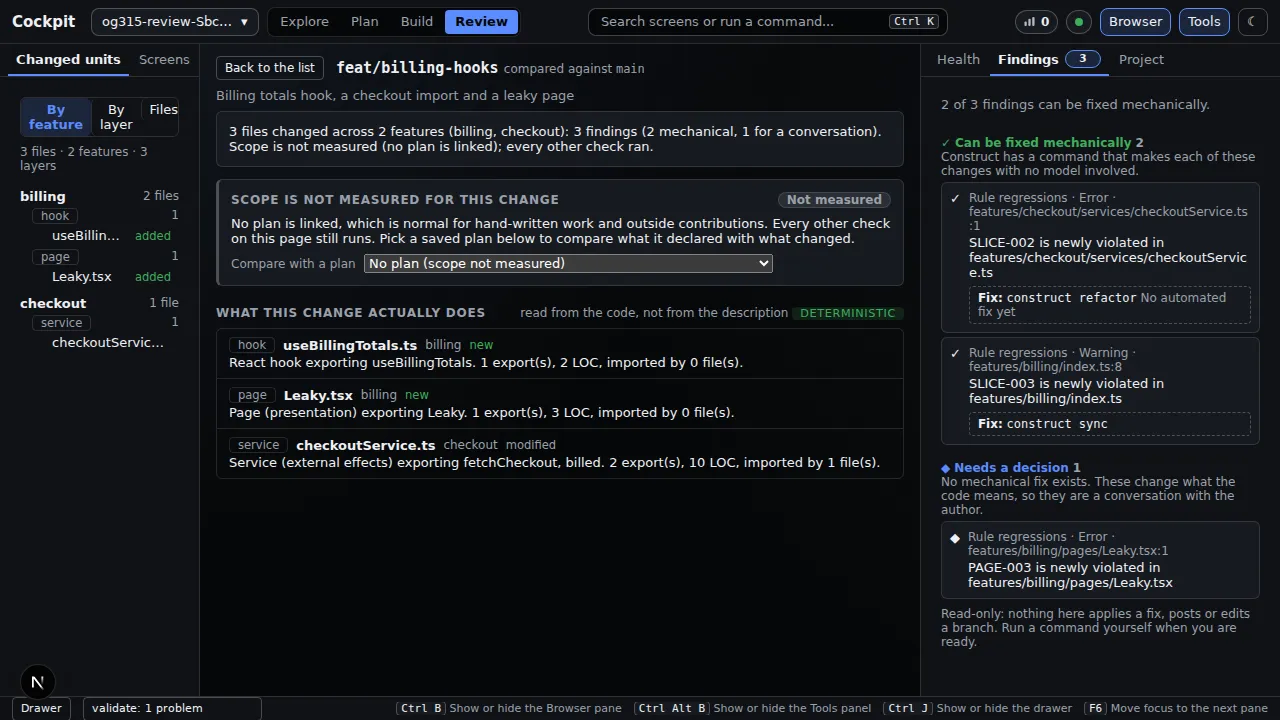
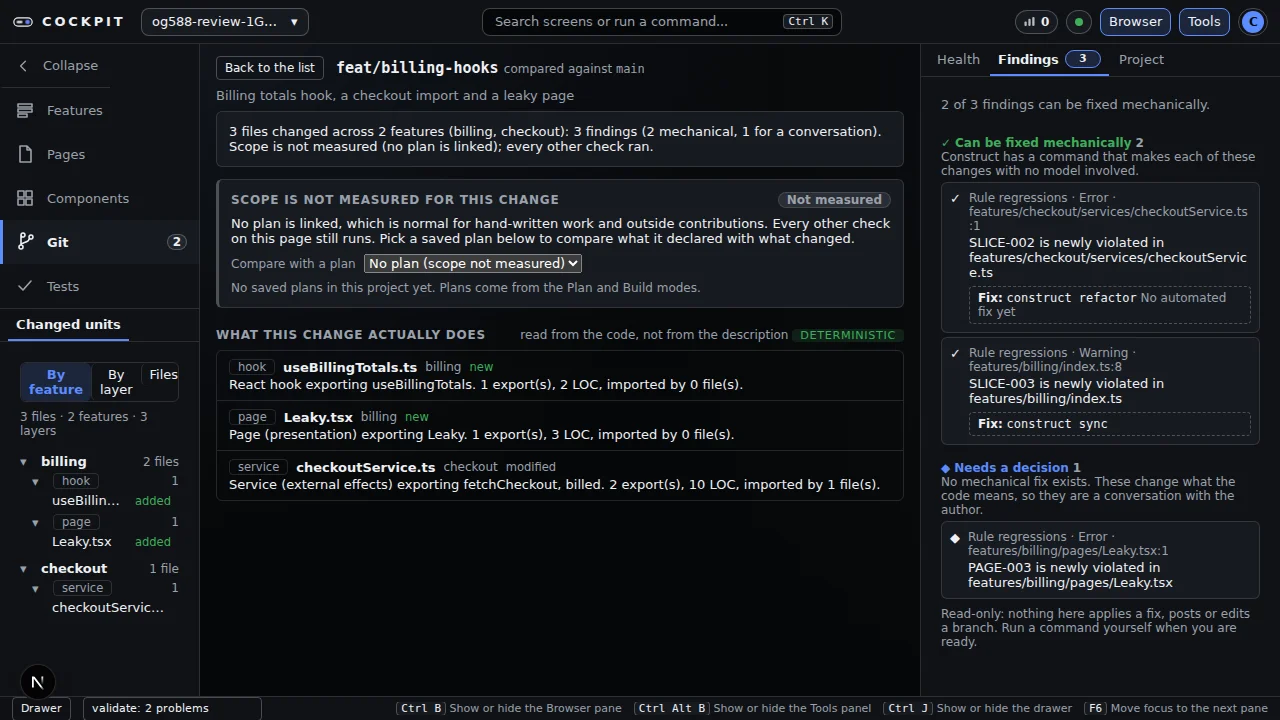
[#588] docs: re-shoot 10 screenshots for the five-screen left-rail shell
The 10 Cockpit screenshots still showing the old Explore/Plan/Build/Review
top bar and the retired Screens tab (flagged by demo-curator, #587
follow-up; the wording fixes landed separately in f5ee233) are re-shot
against the current five-screen left rail (Features/Pages/Components/
Git/Tests): the home hero backdrop (dark + light), plan impact and run,
Git review change and findings, and the three Tests screens.

Each capture reuses the setup from the real spec that first produced that
screenshot's numbers (plan-mode.spec.js, review-mode.spec.js,
review-findings.spec.js, tests-tab.spec.js, tests-step-editor.spec.js,
workflows-shell.spec.js) through a throwaway, uncommitted Playwright spec
driving the real Cockpit, so the new screenshots still match the existing
prose ("3 features and 21 files", "2 of 3 findings can be fixed
mechanically", "9 scenarios ... 7 locked ... 2 none", "three lines added
and four removed"). PNGs were converted to webp/jpg with Chromium's own
canvas encoder (no new dependency), at the same pixel dimensions as the
files they replace. `cockpit-approval.webp` was already current and is
untouched.

Checked-against lines on the three touched example pages bumped to
9c81b5b (2026-09-23).

diff --git a/site/content/user/examples/cockpit-plan-and-run.md b/site/content/user/examples/cockpit-plan-and-run.md
@@ -48,4 +48,4 @@ You review a small, exact change instead of untangling a surprise, and nothing r
 | Your own files untouched until you approve | the bot's own copy and branch |
 | A decision per file, on the exact difference | "You get" above |
 
-Checked against commit `d23283f` on 2026-09-23. Screenshots come from the project's own Playwright runs of these screens.
+Checked against commit `9c81b5b` on 2026-09-23. Screenshots come from the project's own Playwright runs of these screens.

diff --git a/site/content/user/examples/cockpit-review.md b/site/content/user/examples/cockpit-review.md
@@ -47,4 +47,4 @@ Pick a saved plan from **Compare with a plan** and the scope check compares what
 
 You review what a change means and decide on a short list, instead of rebuilding the picture from changed lines.
 
-Checked against commit `d23283f` on 2026-09-23. Screenshots come from the project's own Playwright runs of these screens.
+Checked against commit `9c81b5b` on 2026-09-23. Screenshots come from the project's own Playwright runs of these screens.

diff --git a/site/content/user/examples/cockpit-tests.md b/site/content/user/examples/cockpit-tests.md
@@ -45,4 +45,4 @@ Safety and honesty rules the editor keeps:
 
 You can see which routes are untested, and edit a test without the next run overwriting your work.
 
-Checked against commit `d23283f` on 2026-09-23. Screenshots come from the project's own Playwright runs of these screens.
+Checked against commit `9c81b5b` on 2026-09-23. Screenshots come from the project's own Playwright runs of these screens.
